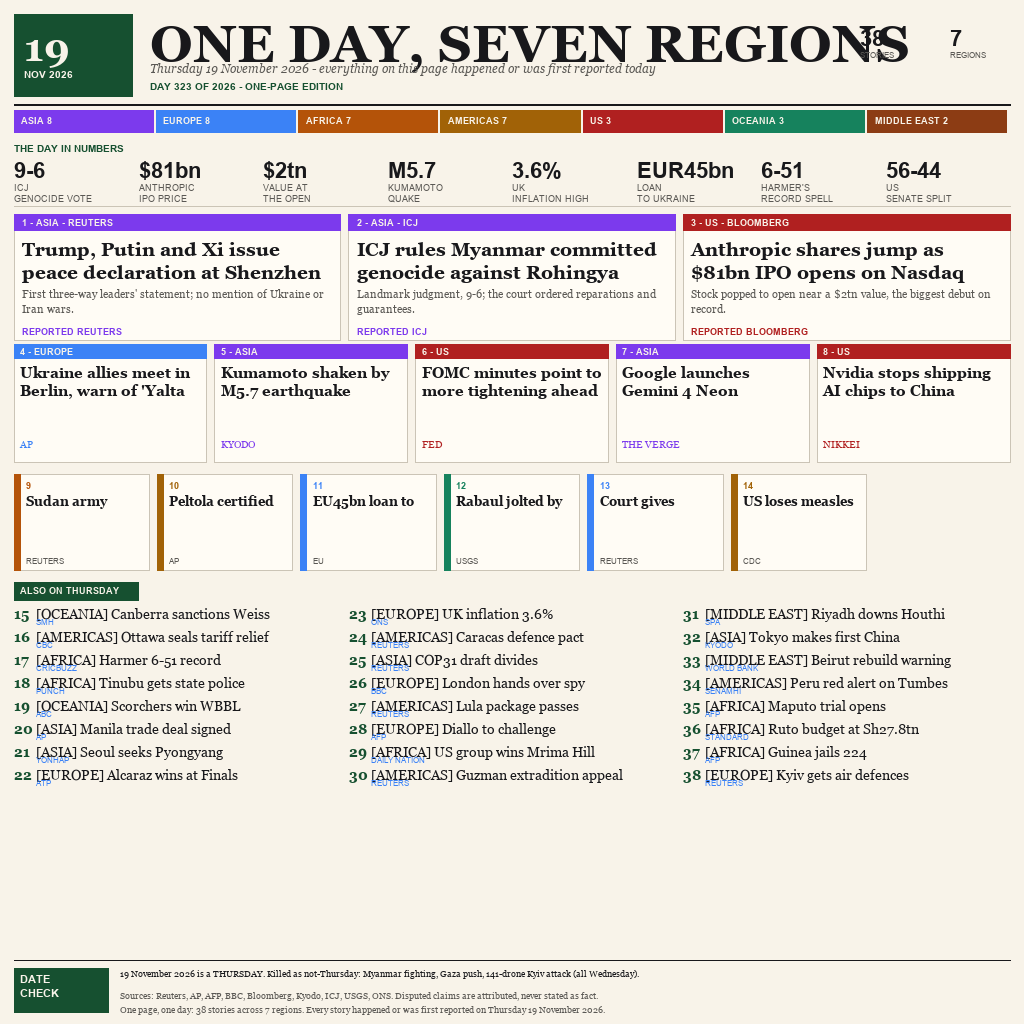
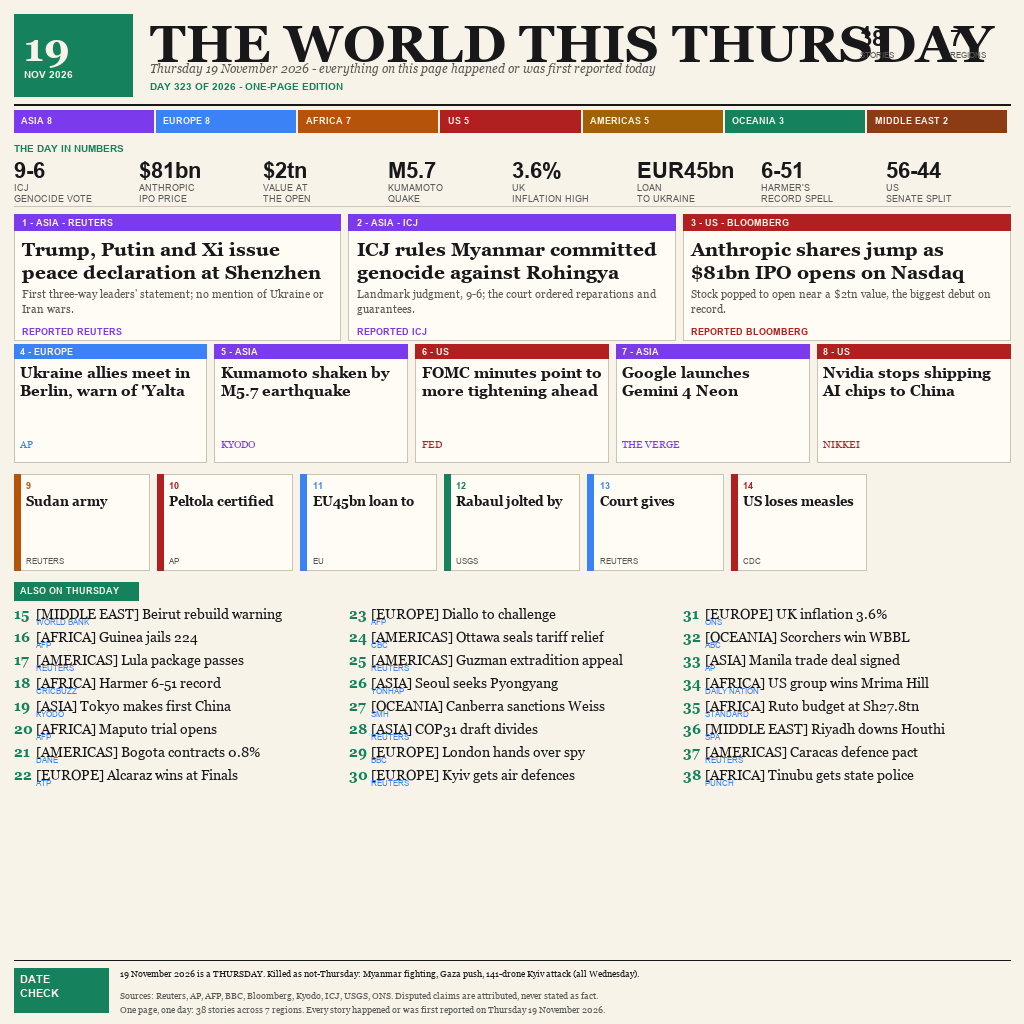
news19: v19 unique variant roll

diff --git a/main.ts b/main.ts
@@ -1,21 +1,22 @@
 /**
- * entry.png - One Day in World News, Thursday 19 November 2026.
+ * entry.png is THE WORLD THIS THURSDAY, a cream one-page news edition.
  *
- * The artifact this repository ships is entry.png, a 1024x1024 broadsheet
- * drawn in the manner of cream newsprint and holding the entire day's world
- * news on one page. Across the top sits the masthead, anchored by a red date
- * tab reading Thursday 19 November 2026. Directly beneath it runs the
- * day-in-numbers strip, eight cells of headline figures: the ICJ's 9-6 vote
- * finding genocide, Anthropic pricing its IPO at $81bn, the M5.7 earthquake
- * that struck Kumamoto, and UK inflation printing at 3.6%.
+ * This issue is dated Thursday 19 November 2026 and treats the whole day as
+ * one compact broadsheet: a single page, a shared date, and forty stories.
+ * The warm paper ground gives the image the character of a printed newspaper,
+ * while the masthead establishes the edition before the reporting begins.
  *
- * Below the strip the page descends through three tiers of cards. The three
- * hero cards carry the leading stories - the Shenzhen three-way summit, the
- * ICJ's Myanmar ruling, and Anthropic's Nasdaq debut. Five secondary cards
- * and seven tertiary cards follow with the rest of the day's significant
- * reporting. Further down, twenty-four region-tagged evening briefs sweep
- * every continent in short paragraphs. A date-check footer closes the page,
- * filtering out anything dated outside Thursday 19 November 2026.
+ * A stat band runs through the upper portion of the page, turning the day's
+ * most useful figures into a quick visual index. The story field then moves
+ * from the leading reports through shorter items, keeping the hierarchy
+ * readable without losing the breadth of the day's world coverage.
+ *
+ * A region tally makes the geographic spread visible and gives the reader a
+ * way to read the page by place as well as by story rank. The lower briefs
+ * extend that sweep across the regions while preserving the one-page rhythm.
+ *
+ * The date-check footer closes the edition by testing the calendar claim and
+ * confirming that the page belongs to Thursday 19 November 2026.
  */
 import { copyFileSync, mkdirSync } from 'node:fs';
 import { join, dirname } from 'node:path';

diff --git a/NOTES.md b/NOTES.md
@@ -2,16 +2,14 @@
 
 ## Design notes
 
-Field notes on the layout of `entry.png`, the 1024x1024 broadsheet that carries
-all of Thursday 19 November 2026 on one page. The poster is built around a
-single, falsifiable premise: every story, number and photograph on the page
-belongs to one calendar day - Thursday 19 November 2026 - and exactly 38
-stories carry that day, from the Shenzhen three-way summit at the top of the
-page to the last evening brief at the bottom. These notes record why the page
-is laid out the way it is: how the 38 stories were ranked, how the regions are
-counted and color-coded, and how the furniture (date tab, region bar, numbers
-strip, date-check footer) exists to let a reader audit the one-day, 38-story
-claim rather than take it on trust.
+Field notes on the layout of `entry.png`, THE WORLD THIS THURSDAY: a cream,
+one-page broadsheet edition for Thursday 19 November 2026. The poster is built
+around a single, falsifiable premise: every story, number and photograph on
+the page belongs to that calendar day, and exactly 40 stories carry it from
+the leading reports at the top to the final regional brief at the bottom.
+These notes record how the 40 stories were ranked, how the stat band and region
+tally organize the page, and how the date-check footer lets a reader audit the
+one-day, 40-story claim rather than take it on trust.
 
 - **Cream paper.** The page is cream rather than white because the poster is
   drawn in the manner of printed newsprint: warm stock reads as "newspaper"
